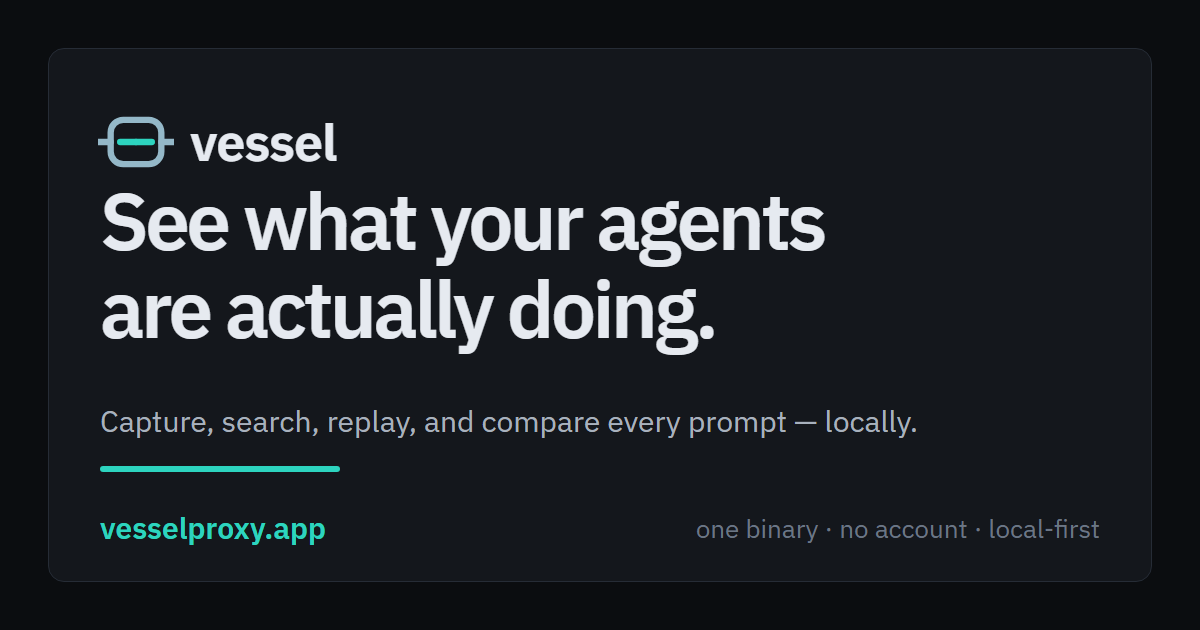
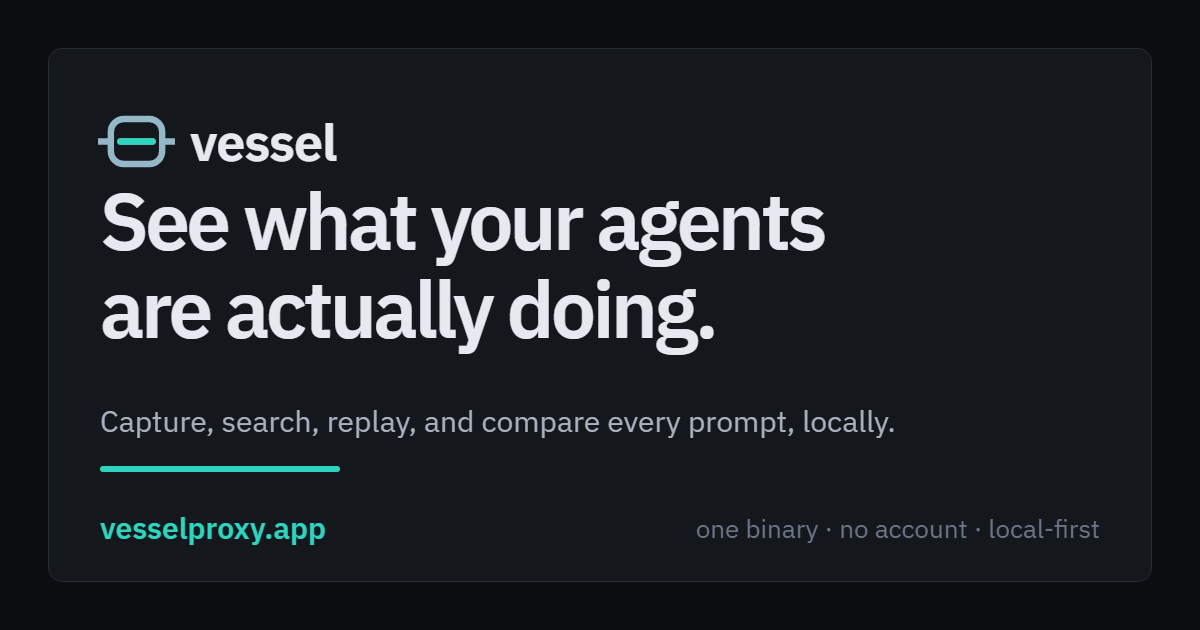
fix(site): retire "nothing leaves your machine", drop em dashes (#162)
## Summary
#135 retired "prompts never leave your machine" in the README and footer
after the winget review: Vessel stores captures locally but forwards
prompts to whichever backends you configure. Four places on the site
still made the claim. This PR also removes every em and en dash, the
copy pass that #160 listed as out of scope.

**The claim**
- `og:description`, `twitter:description`, hero lead, `llms.txt`:
"nothing leaves your machine" → "captured traffic stays on your machine"
(the footer's wording).
- FAQ "Where does the data go?", visible and JSON-LD (kept identical):
"A SQLite file next to the config. Captured traffic is stored only on
your machine; prompts are forwarded only to the model providers you
configure. Auth headers are redacted at rest and keys are never stored."
The middle sentence is the README and winget manifest wording.

**Dashes** (titles, meta, image alt, page copy, the macOS download note)
- `og:title` / `twitter:title`: "vessel: see what your agents are
actually doing"
- Install labels: "Homebrew for macOS (Apple Silicon) and Linux",
"winget for Windows", "Scoop for Windows"
- Feature cards and comparison section: each dash becomes a colon,
commas, parentheses or a new sentence. "Rate responses 1 to 5".
- macOS download note: "Latest v0.x.y for Apple Silicon; Intel Macs
build from source."
- `og:image:alt` now describes what the card shows.

**OG card**
`og-card.png` regenerated with the tagline "Capture, search, replay, and
[…]

diff --git a/site/index.html b/site/index.html
@@ -11,19 +11,19 @@
     <link rel="icon" href="favicon.svg">
     <meta property="og:type" content="website">
     <meta property="og:site_name" content="vessel">
-    <meta property="og:title" content="vessel — see what your agents are actually doing">
+    <meta property="og:title" content="vessel: see what your agents are actually doing">
     <meta property="og:description"
-        content="Capture, search, replay, and compare every LLM prompt — locally. One binary, no account, nothing leaves your machine.">
+        content="Capture, search, replay, and compare every LLM prompt, locally. One binary, no account, captured traffic stays on your machine.">
     <meta property="og:url" content="https://vesselproxy.app/">
     <meta property="og:image" content="https://vesselproxy.app/og-card.png">
     <meta property="og:image:width" content="1200">
     <meta property="og:image:height" content="630">
     <meta property="og:image:alt"
-        content="vessel — local-first LLM observability. Capture, search, replay, and compare every prompt.">
+        content="vessel: See what your agents are actually doing. Capture, search, replay, and compare every prompt, locally.">
     <meta name="twitter:card" content="summary_large_image">
-    <meta name="twitter:title" content="vessel — see what your agents are actually doing">
+    <meta name="twitter:title" content="vessel: see what your agents are actually doing">
     <meta name="twitter:description"
-        content="Capture, search, replay, and compare every LLM prompt — locally. One binary, no account, nothing leaves your machine.">
+        content="Capture, search, replay, and compare every LLM prompt, locally. One binary, no account, captured traffic stays on your machine.">
     <meta name="twitter:image" content="https://vesselproxy.app/og-card.png">
     <script type="application/ld+json">
     {
@@ -52,7 +52,7 @@
         {
           "@type": "Question",
           "name": "Where does the data go?",
-          "acceptedAnswer": { "@type": "Answer", "text": "A SQLite file next to the config. Nothing leaves the machine; auth headers are redacted at rest; keys are never stored." }
+          "acceptedAnswer": { "@type": "Answer", "text": "A SQLite file next to the config. Captured traffic is stored only on your machine; prompts are forwarded only to the model providers you configure. Auth headers are redacted at rest and keys are never stored." }
         },
         {
           "@type": "Question",
@@ -394,26 +394,26 @@
         <section class="panel hero">
             <h1><span class="eyebrow">Local-first LLM observability proxy</span> See what your agents are
                 actually doing.</h1>
-            <p class="lead">vessel sits between your LLM clients and any backend — Ollama, OpenAI, Anthropic, or
+            <p class="lead">vessel sits between your LLM clients and any backend: Ollama, OpenAI, Anthropic, or
                 anything compatible. Change one base URL and every request is captured live: prompts, responses, timing,
                 token counts. Search it, replay it across other models, score what comes back. One small binary. No
-                account. Nothing leaves your machine.</p>
+                account. Captured traffic stays on your machine.</p>
             <div class="actions"><a id="download" class="button"
                     href="https://github.com/spenceclark/Vessel/releases/latest">Download Vessel</a><a class="text-link"
                     href="https://github.com/spenceclark/Vessel">GitHub →</a></div>
             <p id="download-note" class="download-note">Finding the latest release for your operating system…</p>
             <div class="label">Or install with a package manager</div>
-            <div class="install-name">Homebrew — macOS (Apple Silicon) and Linux</div>
+            <div class="install-name">Homebrew for macOS (Apple Silicon) and Linux</div>
             <div class="install-row">
                 <code>brew trust spenceclark/tap &amp;&amp; brew install spenceclark/tap/vessel</code><button
                     type="button" class="copy">Copy</button>
             </div>
-            <div class="install-name">winget — Windows</div>
+            <div class="install-name">winget for Windows</div>
             <div class="install-row">
                 <code>winget install spenceclark.Vessel</code><button
                     type="button" class="copy">Copy</button>
             </div>
-            <div class="install-name">Scoop — Windows</div>
+            <div class="install-name">Scoop for Windows</div>
             <div class="install-row">
                 <code>scoop bucket add spenceclark https://github.com/spenceclark/scoop-bucket &amp;&amp; scoop install vessel</code><button
                     type="button" class="copy">Copy</button>
@@ -424,7 +424,7 @@
         <section class="features">
             <article class="panel feature">
                 <h2>Drop-in capture</h2>
-                <p>Change one base URL. Every request and response — streamed or not — captured byte-for-byte with
+                <p>Change one base URL. Every request and response, streamed or not, captured byte-for-byte with
                     timing, TTFT, and token counts. Unknown traffic passes through untouched.</p>
             </article>
             <article class="panel feature">
@@ -434,24 +434,24 @@
             </article>
             <article class="panel feature">
                 <h2>Tag agents, name runs</h2>
-                <p>Each agent sends its own tag and each run its own session — a header, a path prefix, or a LangGraph
+                <p>Each agent sends its own tag and each run its own session: a header, a path prefix, or a LangGraph
                     callback. Filter, compare, and report per agent, per run.</p>
             </article>
             <article class="panel feature">
                 <h2>Replay, fan out, compare</h2>
-                <p>Re-send a captured request to a different backend or model — or to eight at once, or one model across
-                    a sweep of temperatures — and see every response beside the original with timing and token deltas.
+                <p>Re-send a captured request to a different backend or model (or to eight at once, or one model across
+                    a sweep of temperatures) and see every response beside the original with timing and token deltas.
                 </p>
             </article>
             <article class="panel feature">
                 <h2>Score it, rank it, report it</h2>
-                <p>Rate responses 1–5 as you compare; Reports ranks models and parameter sets by score and win rate, and
+                <p>Rate responses 1 to 5 as you compare; Reports ranks models and parameter sets by score and win rate, and
                     charts tokens, tok/s, duration, cache efficiency, and warnings by model, tag, or backend. Export any
                     filtered list to CSV or JSONL.</p>
             </article>
             <article class="panel feature">
                 <h2>Ask your AI about it</h2>
-                <p>A built-in read-only MCP server lets Claude Code — or any MCP client — search and inspect your
+                <p>A built-in read-only MCP server lets Claude Code, or any MCP client, search and inspect your
                     captured traffic directly. &ldquo;Why did my agent stall?&rdquo; is now a question you can just ask.
                 </p>
             </article>
@@ -470,7 +470,7 @@
             </h3>
             <ul>
                 <li>Application-level vs wire-level. They instrument your code with an SDK and show you spans; Vessel
-                    observes the HTTP and shows you bytes. No SDK, no language binding &mdash; anything with a base URL,
+                    observes the HTTP and shows you bytes. No SDK, no language binding: anything with a base URL,
                     including tools you didn&rsquo;t write (Open WebUI, aider, Cline).</li>
                 <li>Language-neutral. Langfuse is Python/TypeScript SDKs; Vessel is one base URL from any language, or a
                     header, or a path prefix.</li>
@@ -482,8 +482,8 @@
             <h3>Vessel vs <a href="https://www.litellm.ai/" target="_blank">LiteLLM</a> (and other gateways)</h3>
             <ul>
                 <li>A gateway <em>routes and transforms</em>: load-balancing, key management, format translation,
-                    retries. Vessel deliberately forwards byte-for-byte and never mutates. Different job; they stack
-                    &mdash; put Vessel in front of LiteLLM to see what the gateway actually sent.</li>
+                    retries. Vessel deliberately forwards byte-for-byte and never mutates. Different job, and they stack:
+                    put Vessel in front of LiteLLM to see what the gateway actually sent.</li>
                 <li>If your question is &ldquo;what did my agent send?&rdquo;, a gateway&rsquo;s logs are one more layer
                     between you and the answer.</li>
             </ul>
@@ -492,7 +492,7 @@
                     target="_blank">Proxyman</a></h3>
             <ul>
                 <li>They&rsquo;re general HTTP interceptors: you get raw JSON and streaming chunks, and you do the
-                    parsing. Vessel speaks the three wire formats natively &mdash; it reassembles the stream, counts
+                    parsing. Vessel speaks the three wire formats natively: it reassembles the stream, counts
                     tokens (exact when the backend reports them), measures TTFT, flags cold loads and truncations, and
                     lets you replay and compare. Wireshark has dissectors; this is the LLM dissector.</li>
                 <li>No certificate install, no MITM: Vessel is a reverse proxy the client is pointed at.</li>
@@ -500,9 +500,9 @@
             <h3>Vessel vs &ldquo;just log it in my code&rdquo;</h3>
             <ul>
                 <li>Works before you&rsquo;ve written any code, and for code that isn&rsquo;t yours.</li>
-                <li>Sees what actually went on the wire after the SDK&rsquo;s defaults, retries, and transformations
-                    &mdash; the &ldquo;is it my code or the model?&rdquo; question that logging inside the code
-                    can&rsquo;t answer.</li>
+                <li>Sees what actually went on the wire after the SDK&rsquo;s defaults, retries, and transformations.
+                    That answers the &ldquo;is it my code or the model?&rdquo; question, which logging inside the
+                    code can&rsquo;t.</li>
             </ul>
         </section>
         <section class="panel prose">
@@ -511,8 +511,8 @@
             <p>No. Byte-for-byte, with only <code>X-Vessel-*</code> headers stripped. <code>injectStreamUsage</code> is
                 the single opt-in exception, and it&rsquo;s flagged on the row.</p>
             <h3>Where does the data go?</h3>
-            <p>A SQLite file next to the config. Nothing leaves the machine; auth headers are redacted at rest; keys are
-                never stored.</p>
+            <p>A SQLite file next to the config. Captured traffic is stored only on your machine; prompts are forwarded
+                only to the model providers you configure. Auth headers are redacted at rest and keys are never stored.</p>
             <h3>Which backends?</h3>
             <p>Ollama native, any OpenAI-compatible server (LM Studio, llama.cpp, vLLM, OpenRouter, the OpenAI API
                 itself), and Anthropic Messages. Unknown formats pass through and are stored raw.</p>
@@ -525,7 +525,7 @@
         const os = navigator.userAgent.includes('Windows') ? 'win-x64' : navigator.userAgent.includes('Mac') ? 'osx-arm64' : 'linux-x64'; // macOS builds are Apple Silicon only; Intel Macs build from source
         fetch(`https://api.github.com/repos/${repository}/releases/latest`, { headers: { Accept: 'application/vnd.github+json' } })
             .then(response => response.ok ? response.json() : Promise.reject(response.status))
-            .then(release => { const asset = release.assets.find(item => item.name.includes(`-${os}.`) && !item.name.endsWith('.sha256')); if (!asset) throw new Error('asset missing'); button.href = asset.browser_download_url; button.textContent = `Download for ${os}`; note.textContent = os === 'osx-arm64' ? `Latest ${release.tag_name} — Apple Silicon build; Intel Macs build from source.` : `Latest ${release.tag_name}`; })
+            .then(release => { const asset = release.assets.find(item => item.name.includes(`-${os}.`) && !item.name.endsWith('.sha256')); if (!asset) throw new Error('asset missing'); button.href = asset.browser_download_url; button.textContent = `Download for ${os}`; note.textContent = os === 'osx-arm64' ? `Latest ${release.tag_name} for Apple Silicon; Intel Macs build from source.` : `Latest ${release.tag_name}`; })
             .catch(() => { note.textContent = 'Choose your platform from the latest GitHub release.'; });
         for (const copy of document.querySelectorAll('.copy')) copy.addEventListener('click', async () => {
             try { await navigator.clipboard.writeText(copy.previousElementSibling.textContent); copy.textContent = 'Copied'; } catch { copy.textContent = 'Select & copy'; }
